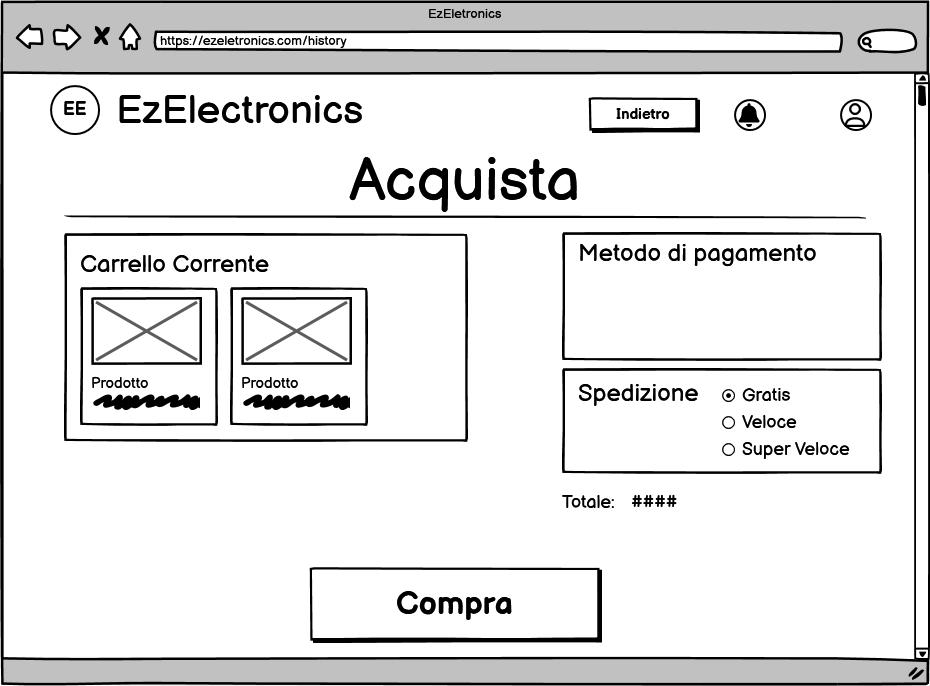
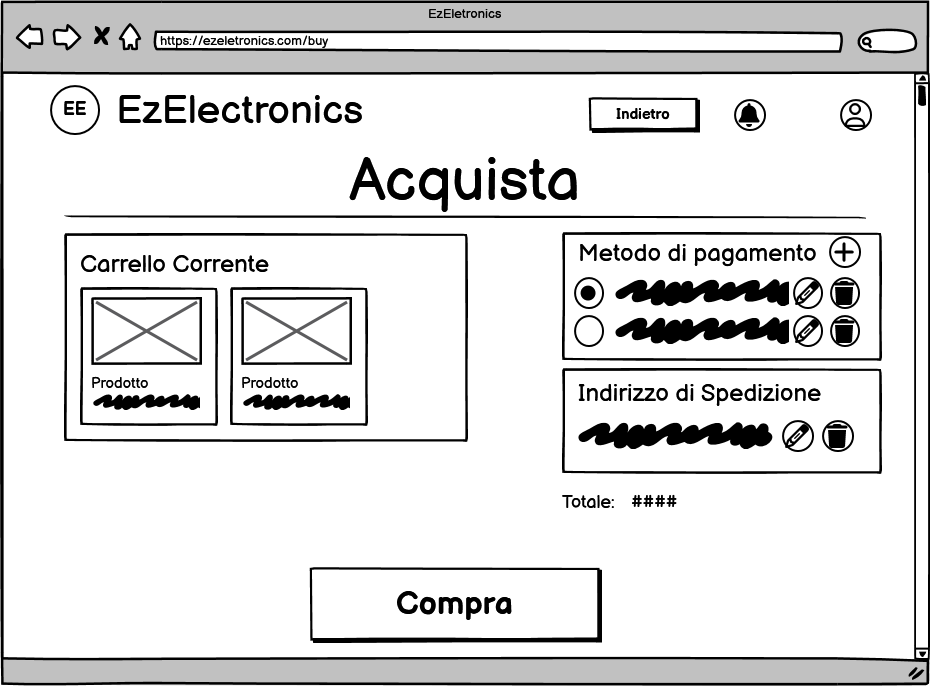
GUI V2 aggiunta requisiti FR6 FR5 FR4

Changed region(s): [[0.6237, 0.3367, 0.9355, 0.5204], [0.6237, 0.551, 0.9355, 0.6735], [0.343, 0.0306, 0.3742, 0.0918]]

diff --git a/GUIPrototypeV2.md b/GUIPrototypeV2.md
@@ -4,118 +4,137 @@ Authors: Alessandra Cicciarelli, Filippo Forte, Giulio Arecco, Riccardo Daniele 
 
 Date: 23/04/2024
 
-Version: 2.3
+Version: 2.5
 
 ## Pagina Principale
 
-![Index](/img/IndexV2.png)
+![Index](./img/IndexV2.png)
 
-![IndexPC](/img/IndexV2PC.png)
+![IndexPC](./img/IndexV2PC.png)
 
 ## Scrermata di registrazione
 
-![Register](/img/Register.png)
+![Register](./img/RegisterV2.png)
 
-![RegisterPC](/img/RegisterPC.png)
+![RegisterPC](./img/RegisterV2PC.png)
 
 ## Scrermata di login
 
-![Login](/img/Login.png)
+![Login](./img/Login.png)
 
-![LoginPC](/img/LoginPC.png)
+![LoginPC](./img/LoginPC.png)
 
 ## Scrermata di visualizzazione prodotti (da utente customer)
 
-![PaginaCustomer](/img/PaginaCustomerV2.png)
+![PaginaCustomer](./img/PaginaCustomerV2.png)
 
-![PaginaCustomerPC](/img/PaginaCustomerV2PC.png)
+![PaginaCustomerPC](./img/PaginaCustomerV2PC.png)
 
 ### Prodotto (da utente customer)
 
 Si accede alla pagina premendo sull'icona del prodotto desiderato
 
-![Prodotto](/img/Prodotto.png)
+![Prodotto](./img/Prodotto.png)
 
-![ProdottoPC](/img/ProdottoPC.png)
+![ProdottoPC](./img/ProdottoPC.png)
 
 ### Carrello (da utente customer)
 
 Si accede alla pagina premendo sull'icona del carrello sulla navbar
 
-![Carrello](/img/CarrelloV2.png)
+![Carrello](./img/CarrelloV2.png)
 
-![CarrelloPC](/img/CarrelloV2PC.png)
+![CarrelloPC](./img/CarrelloV2PC.png)
 
 ### Acquista (da utente customer)
 
-![Acquista](/img/Acquista.png)
+![Acquista](./img/Acquista.png)
 
-![AcquistaPC](/img/AcquistaPC.png)
+![AcquistaPC](./img/AcquistaPC.png)
+
+### Modifica metodo di pagamento (da utente customer)
+
+![ModificaPagamento](./img/ModificaPagamento.png)
+
+![ModificaPagamentoPC](./img/ModificaPagamentoPC.png)
+
+
+### Modifica indirizzo di spedizione (da utente customer)
+
+![ModificaIndirizzo](./img/ModificaIndirizzo.png)
+
+![ModificaIndirizzoPC](./img/ModificaIndirizzoPC.png)
 
 ### Storia dei carrelli (da utente customer)
 
 Si accede alla pagina tramite la voce nel menu a tendina nella navbar o tramite i pulsanti appositi
 
-![History](/img/HistoryV2.png)
+![History](./img/HistoryV2.png)
 
-![HistoryPC](/img/HistoryV2PC.png)
+![HistoryPC](./img/HistoryV2PC.png)
 
 ### Stato della spedizione (da utente customer)
 
-![Stato](/img/Stato.png)
+![Stato](./img/Stato.png)
 
-![StatoPC](/img/StatoPC.png)
+![StatoPC](./img/StatoPC.png)
 
 ### Lista dei desideri (da utente customer)
 
 Si accede alla pagina tramite la voce nel menu a tendina nella navbar
 
-![ListaDesideri](/img/ListaDesideri.png)
+![ListaDesideri](./img/ListaDesideri.png)
 
-![ListaDesideriPC](/img/ListaDesideriPC.png)
+![ListaDesideriPC](./img/ListaDesideriPC.png)
 
 ### Centro notifiche (da utente customer)
 
-![Notifiche](/img/Notifiche.png)
+![Notifiche](./img/Notifiche.png)
 
-![NotifichePC](/img/NotifichePC.png)
+![NotifichePC](./img/NotifichePC.png)
 
 ## Scrermata di visualizzazione prodotti (da utente manager)
 
-![PaginaManager](/img/PaginaManagerV2.png)
+![PaginaManager](./img/PaginaManagerV2.png)
 
-![PaginaManagerPC](/img/PaginaManagerV2PC.png)
+![PaginaManagerPC](./img/PaginaManagerV2PC.png)
 
 ### Inserisci un nuovo prodotto (da utente manager)
 
 Si accede alla pagina tramite il bottone "Aggiungi Prodotto" sulla navbar per la versione da PC mentre attraverso il bottone corrispondente situato in basso da cellulare
 
-![InserisciProdotto](/img/InserisciProdotto.png)
+![InserisciProdotto](./img/InserisciProdotto.png)
 
-![InserisciProdottoPC](/img/InserisciProdottoPC.png)
+![InserisciProdottoPC](./img/InserisciProdottoPC.png)
 
 ### Registrazione arrivi (da utente manager)
 
 Si accede alla pagina tramite il bottone "Registrazione Arrivi" sulla navbar per la versione da PC mentre attraverso il bottone corrispondente situato in basso da cellulare
 
-![RegistrazioneArrivi](/img/RegistrazioneArrivi.png)
+![RegistrazioneArrivi](./img/RegistrazioneArrivi.png)
 
-![RegistrazioneArriviPC](/img/RegistrazioneArriviPC.png)
+![RegistrazioneArriviPC](./img/RegistrazioneArriviPC.png)
 
 ### Modifica prodotto (da utente manager)
 
-![ModificaProdotto](/img/ModificaProdotto.png)
+![ModificaProdotto](./img/ModificaProdotto.png)
 
-![ModificaProdottoPC](/img/ModificaProdottoPC.png)
+![ModificaProdottoPC](./img/ModificaProdottoPC.png)
 
 ### Sconta prodotto (da utente manager)
 
-![Sconto](/img/Sconto.png)
+![Sconto](./img/Sconto.png)
 
-![ScontoPC](/img/ScontoPC.png)
+![ScontoPC](./img/ScontoPC.png)
 
 ## Profilo (da utente customer e manager)
 
-![Profilo](/img/Profilo.png)
+![Profilo](./img/Profilo.png)
 
-![ProfiloPC](/img/ProfiloPC.png)
+![ProfiloPC](./img/ProfiloPC.png)
+
+## Modifica Profilo (da utente customer e manager)
+
+![ProfiloModifica](./img/ProfiloModifica.png)
+
+![ProfiloModificaPC](./img/ProfiloModificaPC.png)

diff --git a/RequirementsDocumentV2.md b/RequirementsDocumentV2.md
@@ -48,6 +48,8 @@ EZElectronics (read EaSy Electronics) is a software application designed to help
 | Servizio di spedizione| Servizio per la spedizione dei prodotti                                        |
 | Amministratore        | Amministratore del sistema                                                     |
 | Utente guest          | Utente che non ha ancora effettuato la fase di login o la fase di registrazione|
+| Validazione mail      | Servizio per la validazione che le mail inserite siano corrette                |
+| Invio mail            | Servizio per scrivere ed inviare delle mail                                    |
 
 # Context Diagram and interfaces
 
@@ -65,6 +67,8 @@ EZElectronics (read EaSy Electronics) is a software application designed to help
 | Amministratore        | GUI (interfaccia per visualizzare e gestire i prodotti e gli utenti)      | Console           |
 | Servizio bancario     | APIs                                                                      | Internet          |
 | Servizio di spedizione| APIs                                                                      | Internet          |
+| Validazione mail      | APIs                                                                      | Internet          |
+| Invio mail            | APIs                                                                      | Internet          |
 
 # Stories and personas
 
